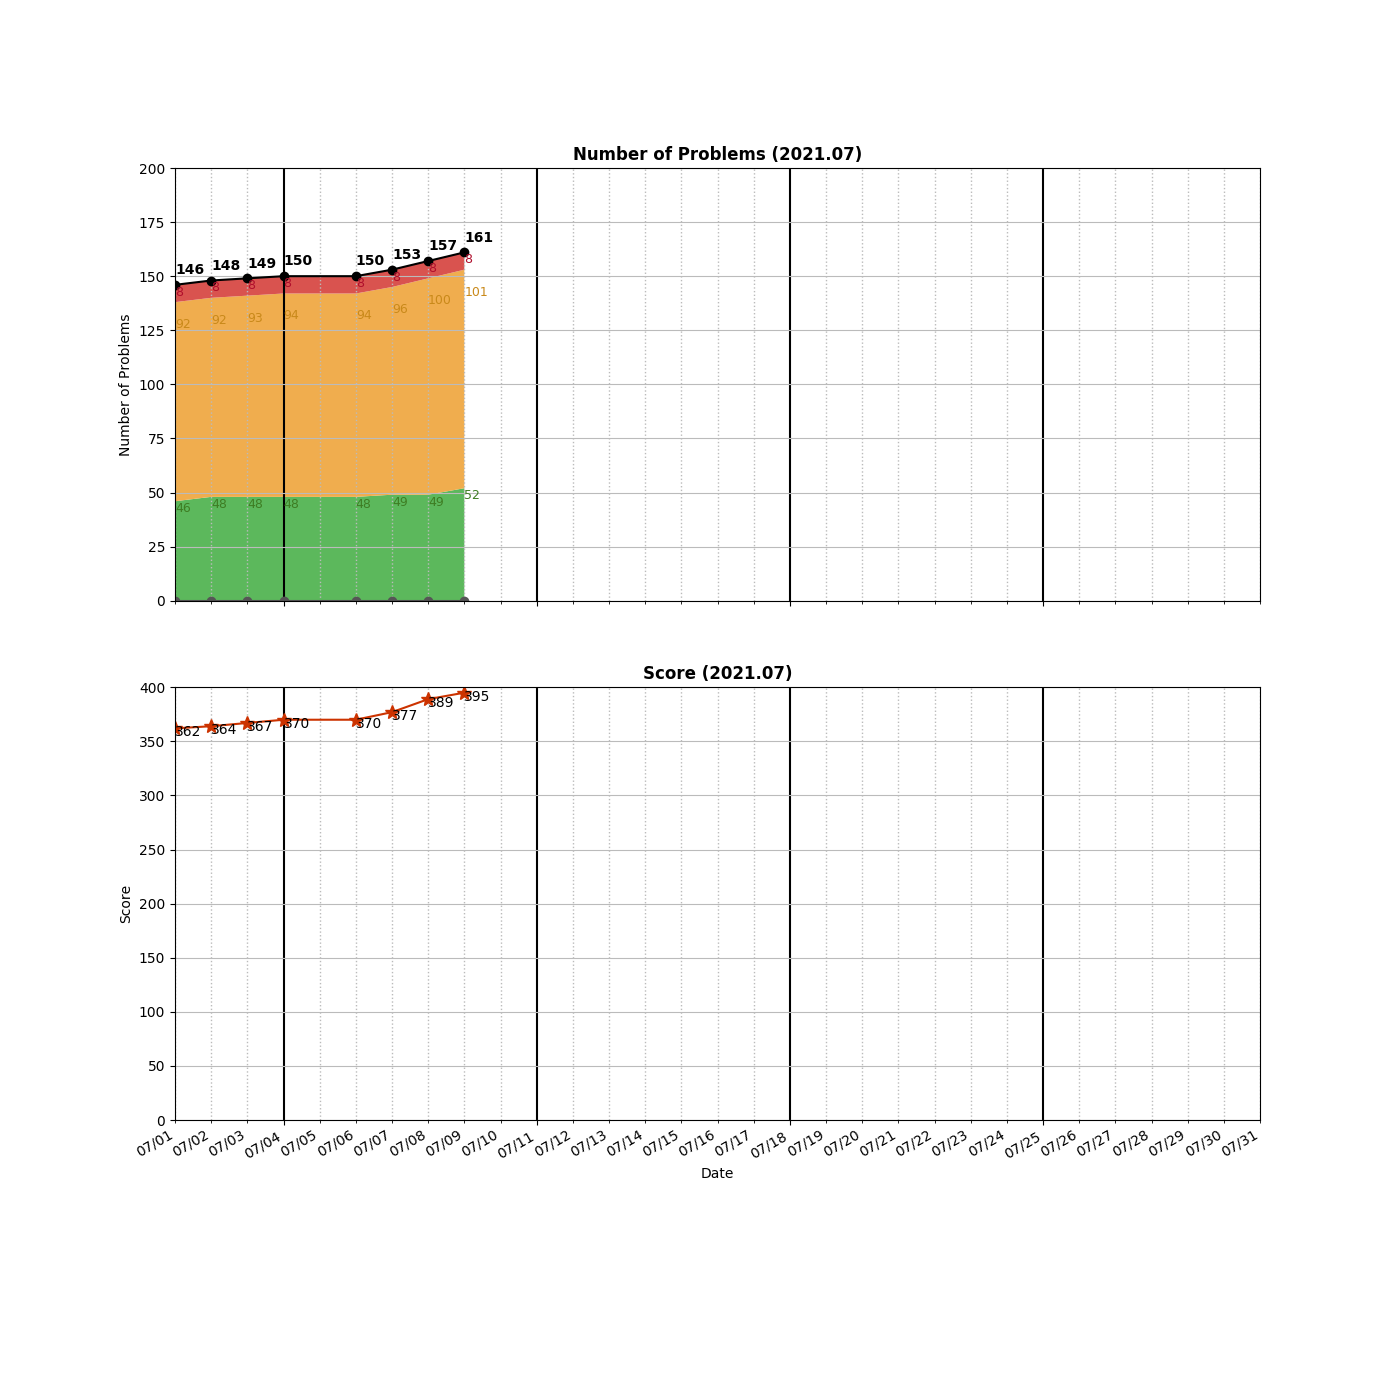
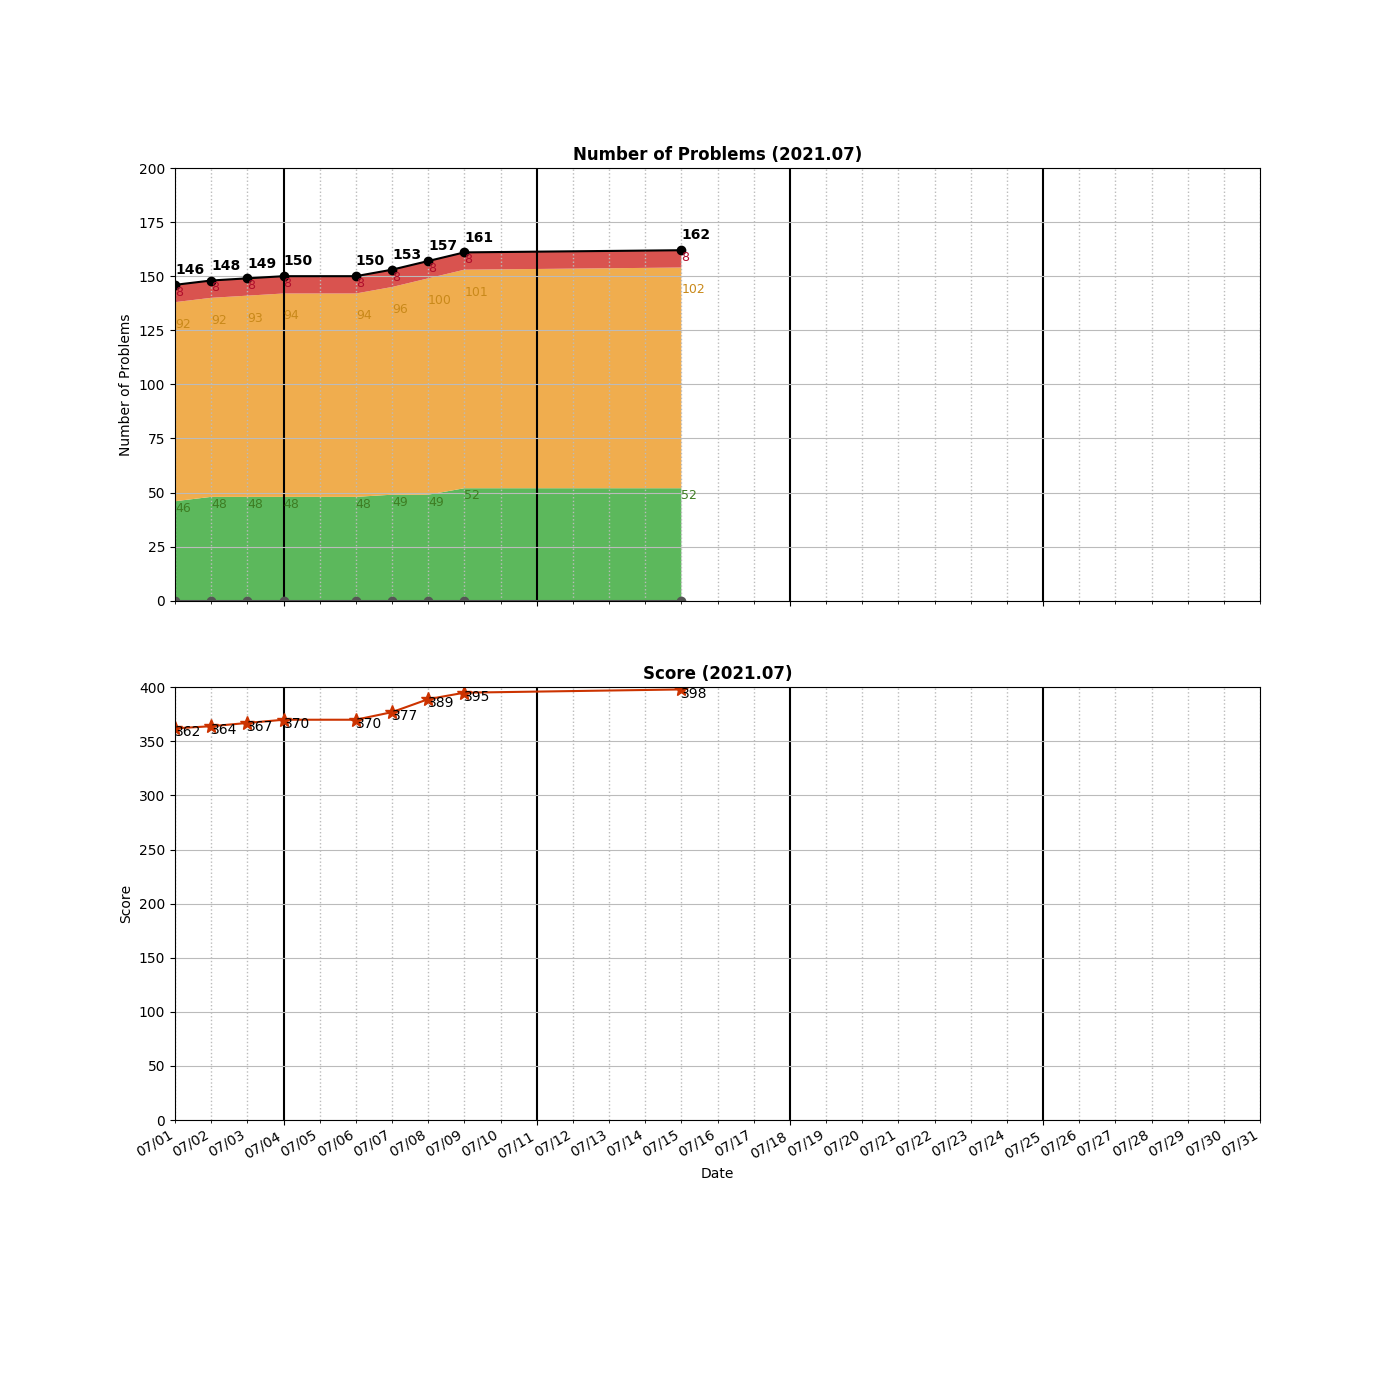
Added __0241__Different Ways to Add Parentheses.py

Changed region(s): [[0.3071, 0.1536, 0.4914, 0.43], [0.4607, 0.4914, 0.4914, 0.5221]]

diff --git a/algo/Recursion/__0241__Different Ways to Add Parentheses.py b/algo/Recursion/__0241__Different Ways to Add Parentheses.py
@@ -1,0 +1,33 @@
+class Solution:
+    
+    # Memoization DP [95%]
+    # Divide and Conquer (recursion) [46%]
+    def diffWaysToCompute(self, expression: str) -> List[int]:
+        memo = {}
+        return self.cal(expression, memo)
+        
+    def cal(self, expression, memo):
+        if not expression:
+            return []
+        #if expression in memo:
+        #    return memo[expression]
+        
+        results = []
+        for i in range(len(expression)):
+            if expression[i] == "+" or expression[i] == "-" or expression[i] == "*":
+                left = self.cal(expression[:i], memo)
+                right = self.cal(expression[i+1:], memo)
+                for l in left:
+                    for r in right:
+                        if expression[i] == "+": 
+                            results.append(l+r)
+                        if expression[i] == "-": 
+                            results.append(l-r)
+                        if expression[i] == "*": 
+                            results.append(l*r)
+        if not results:
+            results.append(int(expression))
+        memo[expression] = results
+        return results
+                
+                

diff --git a/README.md b/README.md
@@ -24,6 +24,7 @@ algo
 │   ├── __0033__Search\ in\ Rotated\ Sorted\ Array.py
 │   ├── __0034__Find\ First\ and\ Last\ Position\ of\ Element\ in\ Sorted\ Array.py
 │   ├── __0050__Pow(x,\ n).py
+│   ├── __0069__Sqrt(x).py
 │   ├── __0074__Search\ a\ 2D\ Matrix.py
 │   ├── __0153__Find\ Minimum\ in\ Rotated\ Sorted\ Array.py
 │   ├── __0162__Find\ Peak\ Element.py
@@ -79,6 +80,7 @@ algo
 │   ├── __0300__Longest\ Increasing\ Subsequence.py
 │   ├── __0322__Coin\ Change.py
 │   ├── __0576__Out\ of\ Boundary\ Paths.py
+│   ├── __0935__Knight\ Dialer.py
 │   └── __1395__Count\ Number\ of\ Teams.py
 ├── DataStructure
 │   ├── __0146__LRU\ Cache.py
@@ -97,7 +99,8 @@ algo
 │   ├── __0049__Group\ Anagrams.py
 │   ├── __0287__Find\ the\ Duplicate\ Number.py
 │   ├── __0290__Word\ Pattern.py
-│   └── __0347__Top\ K\ Frequent\ Elements.py
+│   ├── __0347__Top\ K\ Frequent\ Elements.py
+│   └── __0705__Design\ HashSet.py
 ├── Heap
 │   ├── __0215__Kth\ Largest\ Element\ in\ an\ Array.py
 │   ├── __0263__Ugly\ Number.py
@@ -116,7 +119,10 @@ algo
 │   ├── __0148__Sort\ List.py
 │   ├── __0160__Intersection\ of\ Two\ Linked\ Lists.py
 │   ├── __0206__Reverse\ Linked\ List.py
-│   └── __0234__Palindrome\ Linked\ List.py
+│   ├── __0234__Palindrome\ Linked\ List.py
+│   └── __0237__Delete\ Node\ in\ a\ Linked\ List.py
+├── Recursion
+│   └── __0241__Different\ Ways\ to\ Add\ Parentheses.py
 ├── Sorting
 │   └── __0242__Valid\ Anagram.py
 ├── Stack
@@ -183,7 +189,7 @@ algo
         ├── LinkedList.cpython-37.pyc
         └── UnrolledLinkedList.cpython-37.pyc
 
-19 directories, 163 files
+20 directories, 168 files
 
 =====================================
 ============= Local Repo ============
@@ -217,6 +223,7 @@ __0053__Maximum Subarray.py
 __0056__Merge Intervals.py
 __0062__Unique Paths.py
 __0064__Minimum Path Sum.py
+__0069__Sqrt(x).py
 __0070__Climbing Stairs.py
 __0074__Search a 2D Matrix.py
 __0075__Sort Colors.py
@@ -280,8 +287,10 @@ __0230__Kth Smallest Element in a BST.py
 __0234__Palindrome Linked List.py
 __0235__Lowest Common Ancestor of a Binary Search Tree.py
 __0236__Lowest Common Ancestor of a Binary Tree.py
+__0237__Delete Node in a Linked List.py
 __0239__Sliding Window Maximum.py
 __0240__Search a 2D Matrix II.py
+__0241__Different Ways to Add Parentheses.py
 __0242__Valid Anagram.py
 __0257__Binary Tree Paths.py
 __0263__Ugly Number.py
@@ -322,6 +331,7 @@ __0694__Number of Distinct Islands.py
 __0695__Max Area of Island.py
 __0703__Kth Largest Element in a Stream.py
 __0704__Binary Search.py
+__0705__Design HashSet.py
 __0706__Design HashMap.py
 __0721__Accounts Merge.py
 __0743__Network Delay Time.py
@@ -333,6 +343,7 @@ __0863__All Nodes Distance K in Binary Tree.py
 __0905__Sort Array By Parity.py
 __0912__Sort an Array.py
 __0922__Sort Array By Parity II.py
+__0935__Knight Dialer.py
 __0969__Pancake Sorting.py
 __0973__K Closest Points to Origin.py
 __1099__Two Sum Less Than K.py
@@ -343,7 +354,7 @@ __1429__First Unique Number.py
 __1593__Split a String Into the Max Number of Unique Substrings.py
 __1905__Count Sub Islands.py
 =====================================
-Num of Python Practice:  154
+Num of Python Practice:  159
 
 
 =====================================
@@ -380,6 +391,7 @@ Num of Python Practice:  154
  0062 Unique Paths
  0063 Unique Paths II
  0064 Minimum Path Sum
+ 0069 Sqrt(x)
  0070 Climbing Stairs
  0074 Search a 2D Matrix
  0075 Sort Colors
@@ -443,8 +455,10 @@ Num of Python Practice:  154
  0234 Palindrome Linked List
  0235 Lowest Common Ancestor of a Binary Search Tree
  0236 Lowest Common Ancestor of a Binary Tree
+ 0237 Delete Node in a Linked List
  0239 Sliding Window Maximum
  0240 Search a 2D Matrix II
+ 0241 Different Ways to Add Parentheses
  0242 Valid Anagram
  0257 Binary Tree Paths
  0263 Ugly Number
@@ -485,6 +499,7 @@ Num of Python Practice:  154
  0695 Max Area of Island
  0703 Kth Largest Element in a Stream
  0704 Binary Search
+ 0705 Design HashSet
  0706 Design HashMap
  0721 Accounts Merge
  0743 Network Delay Time
@@ -496,6 +511,7 @@ Num of Python Practice:  154
  0905 Sort Array By Parity
  0912 Sort an Array
  0922 Sort Array By Parity II
+ 0935 Knight Dialer
  0969 Pancake Sorting
  0973 K Closest Points to Origin
  0994 Rotting Oranges
@@ -507,11 +523,11 @@ Num of Python Practice:  154
  1593 Split a String Into the Max Number of Unique Substrings
  1905 Count Sub Islands
 =====================================
-Solved / Total (Easy)  :   49 /  503
-Solved / Total (Medium):  100 / 1015
-Solved / Total (Hard)  :    8 /  405
-Solved / Total (All)   :  157 / 1923
-Total Score            :  389
+Solved / Total (Easy)  :   52 /  506
+Solved / Total (Medium):  102 / 1018
+Solved / Total (Hard)  :    8 /  409
+Solved / Total (All)   :  162 / 1933
+Total Score            :  398
 =====================================
 
 ```
